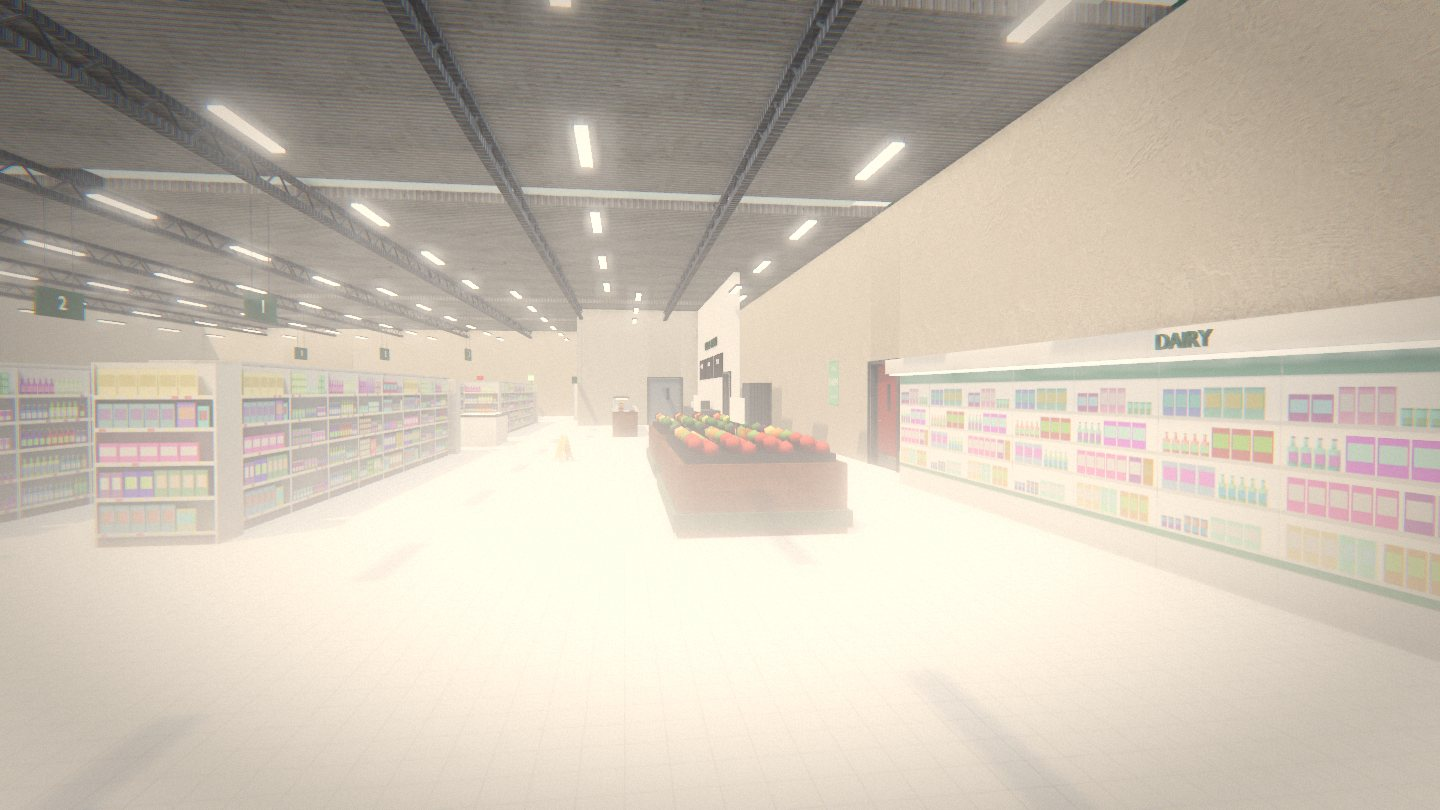
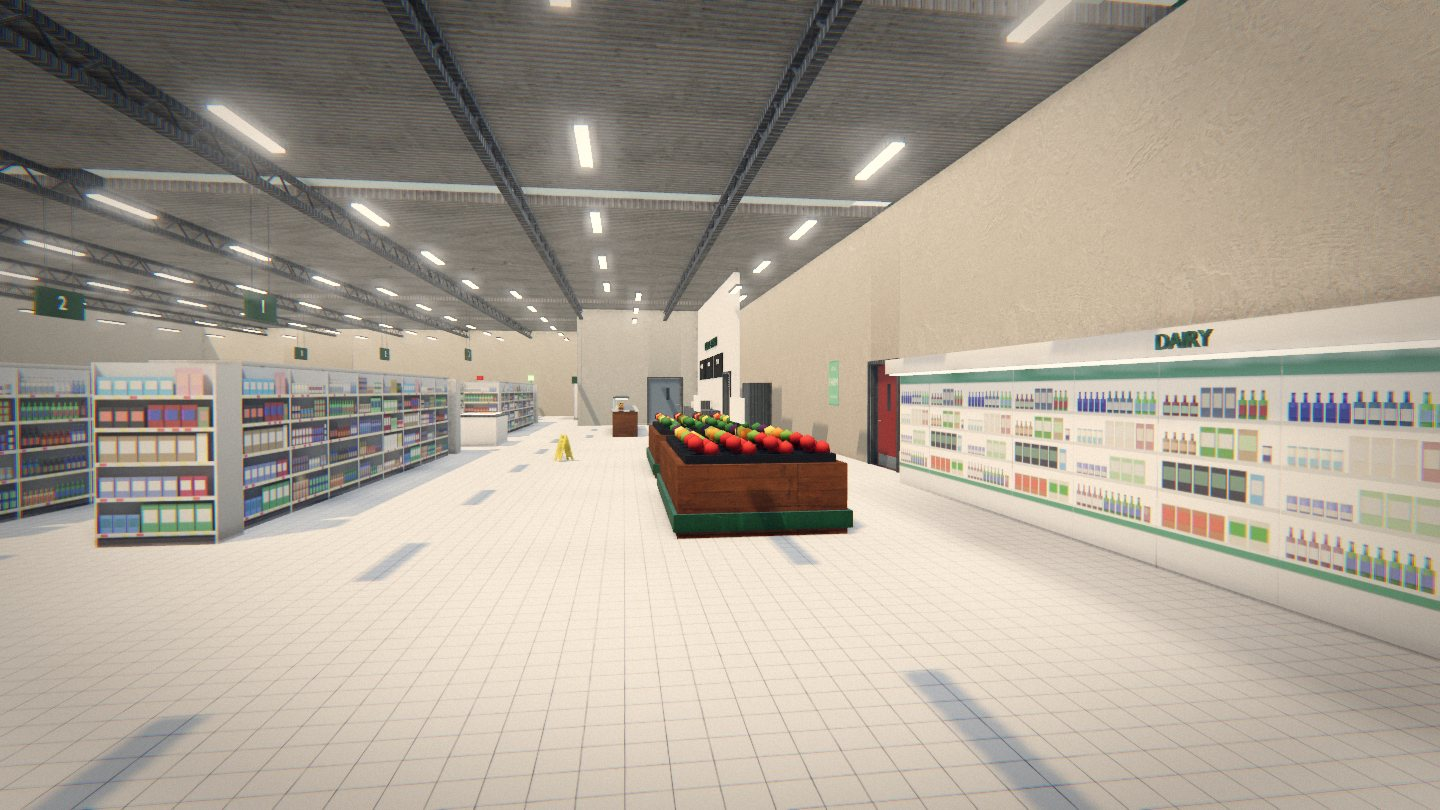
Freshway: realistic product packaging, calmer interior light, new pictures

diff --git a/js/freshway.js b/js/freshway.js
@@ -21,10 +21,10 @@ export const FRESHWAY = blendMap(DATA, {
   name: 'Freshway',
   blurb: 'A supermarket between two car parks: grocery aisles down the middle, produce and dairy by the checkouts, the deli and a stockroom behind, doors that open and close, a delivery yard at each end',
   scale: { v_hedge: 1.3, plaster: 3, brick: 1.6, paint: 2, storefloor: 2.4, concrete: 3, asphalt: 6, cement: 3, metal: 2, wood: 1.5, marble: 2, whitetile: 1.2, rubber: 1, woodold: 1.4, dirt: 2 },
-  noShadow: /car park|shop floor|back floor|pavement|paint line|ground wear|lamp|glow|neon|glass|truss|roof deck|floor light|lot light/,
+  noShadow: /car park|shop floor|back floor|pavement|paint line|ground wear|lamp|glow|neon|glass|truss|roof deck|floor light|lot light|^steel$/,
   groundSurface: 'concrete',
   // under the roof the light is the sky's fill and the sun through the skylights: more fill, a little less exposure
-  look: { photo: { url: 'assets/sky/suburban_parking_area.jpg', u: 0.6001, gain: 1.2 }, sunElev: 58, fog: 0.004, fogColor: 0x9a9c8c, sun: 4.0, hemi: 1.25, hemiSky: 0xe8eef8, ground: 0xb0aca4, exposure: 0.95, env: 0.75 },
+  look: { photo: { url: 'assets/sky/suburban_parking_area.jpg', u: 0.6001, gain: 1.2 }, sunElev: 58, fog: 0.004, fogColor: 0x9a9c8c, sun: 4.0, hemi: 1.0, hemiSky: 0xe8eef8, ground: 0xb0aca4, exposure: 0.86, env: 0.75 },
   extra: {
     ambient: { music: 'muzak', inside },
     doors: [...DOORS, ...DOORS.map(d => ({ ...d, x: -d.x, z: -d.z }))],
